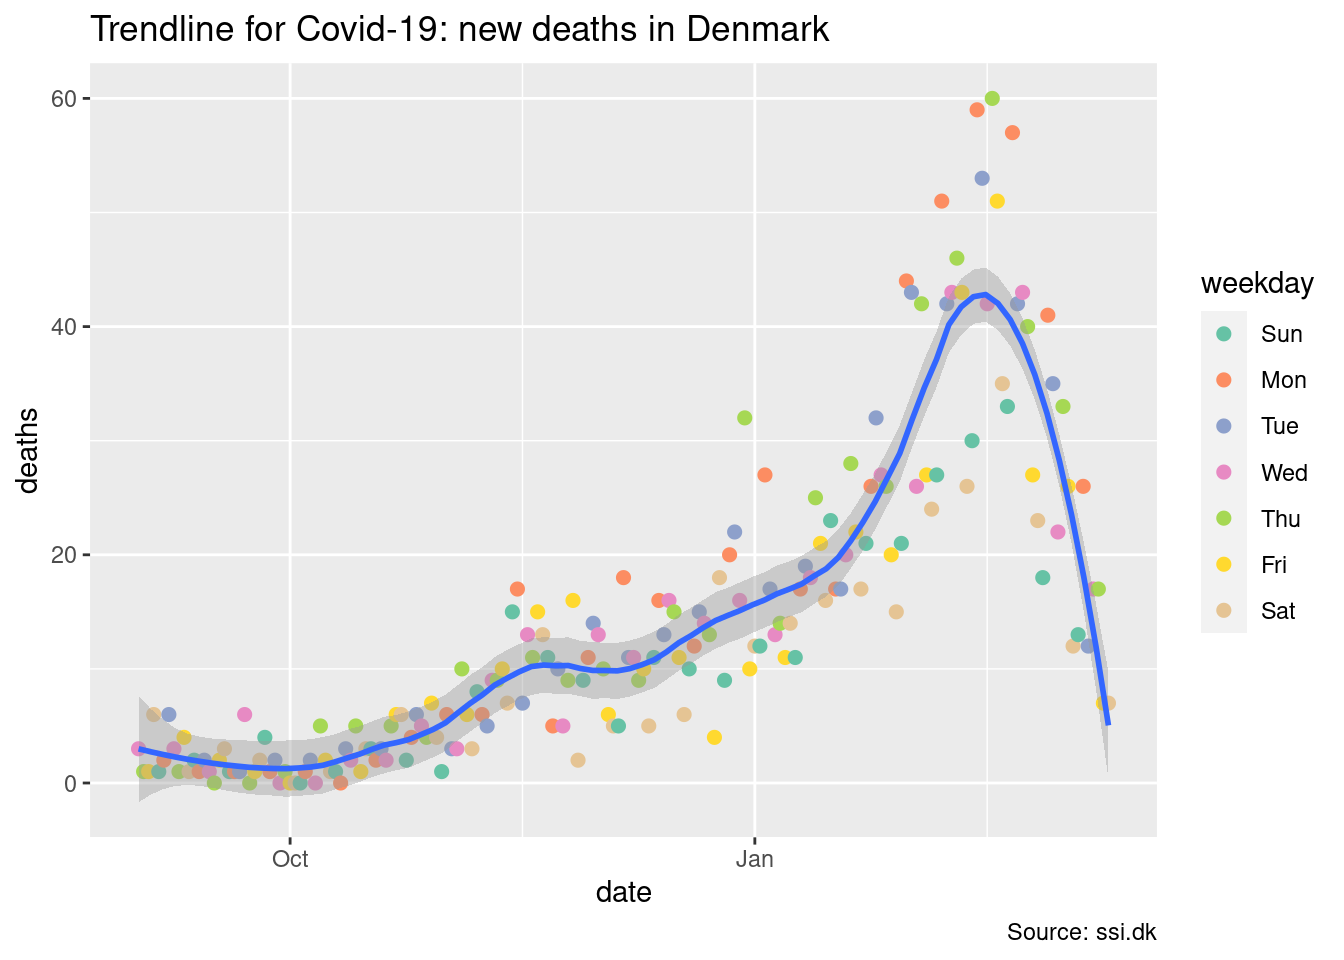
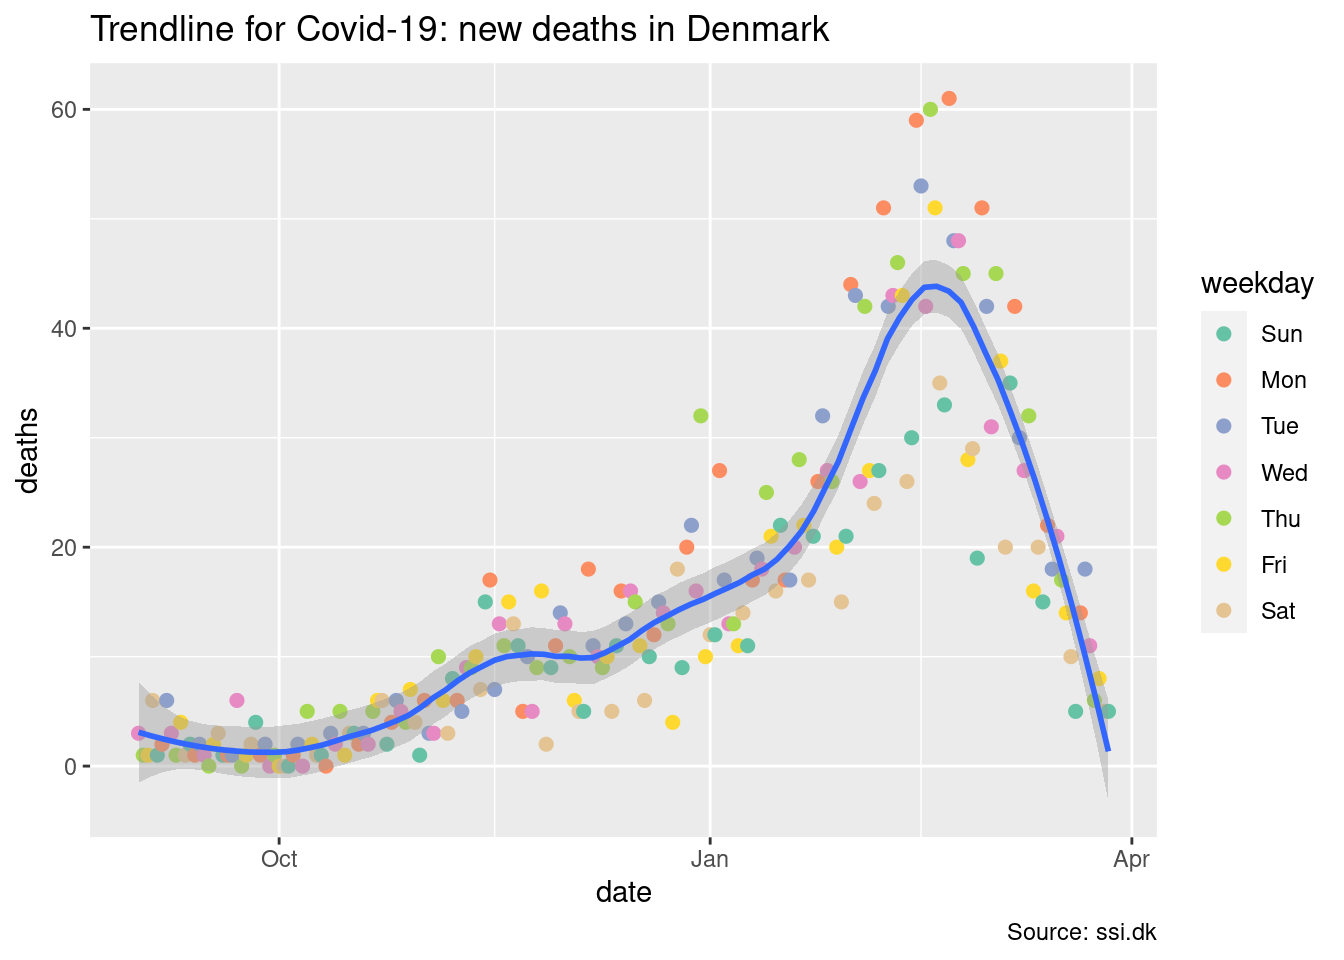
2022-04-06

diff --git a/docs/index.html b/docs/index.html
@@ -10,7 +10,7 @@
 
 
 
-<meta name="date" content="2022-03-22" />
+<meta name="date" content="2022-04-06" />
 
 <title>Covid-19 Stats for Denmark</title>
 
@@ -261,7 +261,7 @@ $(document).ready(function () {
 
 
 <h1 class="title toc-ignore">Covid-19 Stats for Denmark</h1>
-<h4 class="date">2022-03-22</h4>
+<h4 class="date">2022-04-06</h4>
 
 </div>
 
@@ -308,7 +308,7 @@ $(document).ready(function () {
 <pre class="r"><code>library(tidyverse)
 library(lubridate)</code></pre>
 <p>SSI’s data is in a zip file. We unpack this zip file into a directory of the general form <code>YYYY-MM-DD</code>. Lets set up a name for the current directory we want to grab data from</p>
-<pre class="r"><code>date &lt;- &quot;2022-03-22&quot;</code></pre>
+<pre class="r"><code>date &lt;- &quot;2022-04-06&quot;</code></pre>
 </div>
 <div id="ingesting-data" class="section level2">
 <h2>Ingesting data</h2>
@@ -350,7 +350,7 @@ library(lubridate)</code></pre>
                                       ))</code></pre>
 <pre><code>## ℹ Using &quot;&#39;,&#39;&quot; as decimal and &quot;&#39;.&#39;&quot; as grouping mark. Use `read_delim()` for more control.</code></pre>
 <pre class="r"><code>data</code></pre>
-<pre><code>## # A tibble: 7,198 × 9
+<pre><code>## # A tibble: 7,350 × 9
 ##    Region      Prøvetagningsdato Køn   `Bekræftede tilfælde…`  Døde Indlæggelser
 ##    &lt;fct&gt;       &lt;date&gt;            &lt;fct&gt;                  &lt;dbl&gt; &lt;dbl&gt;        &lt;dbl&gt;
 ##  1 Sjælland    2020-02-26        M                          1     0            0
@@ -363,7 +363,7 @@ library(lubridate)</code></pre>
 ##  8 Hovedstaden 2020-03-03        F                          1     0            0
 ##  9 Hovedstaden 2020-03-03        M                          3     0            1
 ## 10 Hovedstaden 2020-03-04        M                          2     0            0
-## # … with 7,188 more rows, and 3 more variables: `Kummuleret antal døde` &lt;dbl&gt;,
+## # … with 7,340 more rows, and 3 more variables: `Kummuleret antal døde` &lt;dbl&gt;,
 ## #   `Kummuleret antal bekræftede tilfælde` &lt;dbl&gt;,
 ## #   `Kummuleret antal indlæggelser` &lt;dbl&gt;</code></pre>
 <p>We certainly don’t want to work with danish-named columns. Rather, we want small descriptive names which are easy to type. We send our dataset through a <code>rename</code> pass for this.</p>
@@ -378,7 +378,7 @@ library(lubridate)</code></pre>
 # Cut the cumulative columns away
 data &lt;- data %&gt;% select(region, date, gender, cases, deaths, hospitalizations)
 data</code></pre>
-<pre><code>## # A tibble: 7,198 × 6
+<pre><code>## # A tibble: 7,350 × 6
 ##    region      date       gender cases deaths hospitalizations
 ##    &lt;fct&gt;       &lt;date&gt;     &lt;fct&gt;  &lt;dbl&gt;  &lt;dbl&gt;            &lt;dbl&gt;
 ##  1 Sjælland    2020-02-26 M          1      0                0
@@ -391,7 +391,7 @@ data</code></pre>
 ##  8 Hovedstaden 2020-03-03 F          1      0                0
 ##  9 Hovedstaden 2020-03-03 M          3      0                1
 ## 10 Hovedstaden 2020-03-04 M          2      0                0
-## # … with 7,188 more rows</code></pre>
+## # … with 7,340 more rows</code></pre>
 <p>Provide a low cut-off. We are interested in the recent period with Omicron, rather than the full duration of Covid-19.</p>
 <pre class="r"><code>lo_cutoff &lt;- &#39;2021-09-01&#39;</code></pre>
 <p>The high end of that cutoff, we set to two days before the maximal date in our data set</p>
@@ -405,20 +405,20 @@ data</code></pre>
 # Put this into the summary
 summary &lt;- data
 summary</code></pre>
-<pre><code>## # A tibble: 2,000 × 6
+<pre><code>## # A tibble: 2,150 × 6
 ##    region      date       gender cases deaths hospitalizations
 ##    &lt;fct&gt;       &lt;date&gt;     &lt;fct&gt;  &lt;dbl&gt;  &lt;dbl&gt;            &lt;dbl&gt;
 ##  1 Hovedstaden 2021-09-01 F        215      0                7
 ##  2 Midtjylland 2021-09-01 F         66      0                0
 ##  3 Nordjylland 2021-09-01 F         22      0                4
 ##  4 Sjælland    2021-09-01 F         43      0                0
-##  5 Syddanmark  2021-09-01 F         46      0                1
+##  5 Syddanmark  2021-09-01 F         40      0                1
 ##  6 Hovedstaden 2021-09-01 M        185      2                8
 ##  7 Midtjylland 2021-09-01 M         49      0                1
 ##  8 Nordjylland 2021-09-01 M         16      1                2
 ##  9 Sjælland    2021-09-01 M         39      0                3
-## 10 Syddanmark  2021-09-01 M         41      0                1
-## # … with 1,990 more rows</code></pre>
+## 10 Syddanmark  2021-09-01 M         40      0                1
+## # … with 2,140 more rows</code></pre>
 </div>
 <div id="weekly-key-figures-split-by-age" class="section level3">
 <h3>Weekly key figures split by age</h3>
@@ -443,20 +443,20 @@ summary</code></pre>
                         tested = &#39;Antal testede&#39;,
                         cases = &#39;Antal positive&#39;)
 data</code></pre>
-<pre><code>## # A tibble: 985 × 7
+<pre><code>## # A tibble: 1,003 × 7
 ##    week     ageGroup tested_100k cases_100k hospitalized_100k tested cases
 ##    &lt;chr&gt;    &lt;fct&gt;          &lt;dbl&gt;      &lt;dbl&gt;             &lt;dbl&gt;  &lt;dbl&gt; &lt;dbl&gt;
-##  1 2020-W04 00-02              0          0                 0      0     0
-##  2 2020-W04 03-05              0          0                 0      0     0
-##  3 2020-W04 06-11              0          0                 0      0     0
-##  4 2020-W04 12-15              0          0                 0      0     0
-##  5 2020-W04 16-19              0          0                 0      0     0
-##  6 2020-W04 20-39              0          0                 0      0     0
-##  7 2020-W04 40-64              0          0                 0      0     0
-##  8 2020-W04 65-79              0          0                 0      0     0
-##  9 2020-W04 80+                0          0                 0      0     0
-## 10 2020-W05 65-79              0          0                 0      1     0
-## # … with 975 more rows</code></pre>
+##  1 2020-U04 00-02              0          0                 0      0     0
+##  2 2020-U04 03-05              0          0                 0      0     0
+##  3 2020-U04 06-11              0          0                 0      0     0
+##  4 2020-U04 12-15              0          0                 0      0     0
+##  5 2020-U04 16-19              0          0                 0      0     0
+##  6 2020-U04 20-39              0          0                 0      0     0
+##  7 2020-U04 40-64              0          0                 0      0     0
+##  8 2020-U04 65-79              0          0                 0      0     0
+##  9 2020-U04 80+                0          0                 0      0     0
+## 10 2020-U05 65-79              0          0                 0      1     0
+## # … with 993 more rows</code></pre>
 <p>Take a look at the <code>week</code> column. It reports a year, and a week number. We’ll need to handle this, by converting this into a date. We’ll do that by defining a fixup function. If we have a string such as <code>2020-W04</code>, it means the 4th week of 2020. To get a date, we need a day inside the week to use as the day-of-week. So we turn the string into <code>2020-W04-1</code>, then send it through <code>strptime()</code>, a general time-parsing function.</p>
 <pre class="r"><code>fixup_week &lt;- function(s) {
     # For strptime to do its work correctly, it must know a day of the week. Here, we
@@ -509,15 +509,15 @@ data</code></pre>
 ##     lau1 name       `Bekræftede ti…` Incidens cases incidence tested tested_100k
 ##    &lt;dbl&gt; &lt;fct&gt;                 &lt;dbl&gt;    &lt;dbl&gt; &lt;dbl&gt;     &lt;dbl&gt;  &lt;dbl&gt;       &lt;dbl&gt;
 ##  1   411 &quot;&quot;                        0       NA     0        0      93      102000
-##  2   101 &quot;Københav…           363472    56641  3504      546  659811      103000
-##  3   147 &quot;Frederik…            56189    54409   648      628. 112788      109000
-##  4   151 &quot;Ballerup&quot;            27120    55025   379      769   50323      102000
-##  5   153 &quot;Brøndby&quot;             20571    57644   235      658.  36398      102000
-##  6   155 &quot;Dragør&quot;               7873    54028   101      693.  14614      100000
-##  7   157 &quot;Gentofte&quot;            38661    52273   504      681.  76465      103000
-##  8   159 &quot;Gladsaxe&quot;            38148    55153   457      661.  72487      105000
-##  9   161 &quot;Glostrup&quot;            13026    55617   168      717.  24549      105000
-## 10   163 &quot;Herlev&quot;              16702    58017   205      712.  29938      104000
+##  2   101 &quot;Københav…           367886    57329  1690      263. 660801      103000
+##  3   147 &quot;Frederik…            56977    55172   293      284. 113096      110000
+##  4   151 &quot;Ballerup&quot;            27594    55986   194      394.  50444      102000
+##  5   153 &quot;Brøndby&quot;             20852    58432   113      317.  36430      102000
+##  6   155 &quot;Dragør&quot;               8031    55113    63      432.  14645      101000
+##  7   157 &quot;Gentofte&quot;            39313    53154   220      298.  76641      104000
+##  8   159 &quot;Gladsaxe&quot;            38731    55996   196      283.  72624      105000
+##  9   161 &quot;Glostrup&quot;            13253    56586    82      350.  24615      105000
+## 10   163 &quot;Herlev&quot;              16938    58837   100      347.  29996      104000
 ## # … with 89 more rows, and 3 more variables: tested_1w &lt;dbl&gt;,
 ## #   tested_100k_1w &lt;dbl&gt;, population &lt;dbl&gt;</code></pre>
 <pre class="r"><code>muncipalities &lt;- data</code></pre>
@@ -657,7 +657,7 @@ p + geom_point(aes(color=region), size=.5) +
 <h2>Weekly data</h2>
 <p>As with the case for daily key figures, we can also use the weekly key figures. An important point of this data set is that the <code>ageGroup</code> are not a continous variable, but a discrete set of groups, non-uniformly spaced in between:</p>
 <pre class="r"><code>levels(factor(weekly$ageGroup))</code></pre>
-<pre><code>## [1] &quot;00-02&quot; &quot;03-05&quot; &quot;06-11&quot; &quot;12-15&quot; &quot;16-19&quot; &quot;20-39&quot; &quot;40-64&quot; &quot;65-79&quot; &quot;80+&quot;</code></pre>
+<pre><code>## character(0)</code></pre>
 <p>Why this is so is a good question. My bet is that it captures schooling groups among the youngest, splits adults into younger and older adults pivoting on 40, and handles the elderly in two large groups as well. However, it also means direct comparison between groups is somewhat dangerous.</p>
 <div id="visualizations" class="section level3">
 <h3>Visualizations</h3>
@@ -668,12 +668,10 @@ p + geom_point(aes(color=region), size=.5) +
         labs(title = title, subtitle = subtitle, caption = &quot;Source: ssi.dk&quot;, x=&quot;Week&quot;, y = &quot;Age Group&quot;)
 }</code></pre>
 <p>The above function allows us to plot cases per age group, and tested per age group</p>
-<pre class="r"><code>p &lt;- ggplot(weekly, aes(x=week, y=ageGroup, fill=cases_100k, height=0.8))
-plot_age_cases(p, &quot;Weekly cases split per age group, DK&quot;, &quot;Schools were closed on 15th Dec 2021, reopened in Jan 2022&quot;)</code></pre>
-<p><img src="index_files/figure-html/age-group-cases-1.png" width="672" /></p>
-<pre class="r"><code>p &lt;- ggplot(weekly, aes(x=week, y=ageGroup, fill=tested_100k, height=0.8))
-plot_age_cases(p, &quot;Weekly tests split per age group, DK&quot;, &quot;Schools were closed on 15th Dec 2021, reopened in Jan 2022&quot;)</code></pre>
-<p><img src="index_files/figure-html/age-group-tests-1.png" width="672" /></p>
+<pre class="r"><code># p &lt;- ggplot(weekly, aes(x=week, y=ageGroup, fill=cases_100k, height=0.8))
+# plot_age_cases(p, &quot;Weekly cases split per age group, DK&quot;, &quot;Schools were closed on 15th Dec 2021, reopened in Jan 2022&quot;)</code></pre>
+<pre class="r"><code># p &lt;- ggplot(weekly, aes(x=week, y=ageGroup, fill=tested_100k, height=0.8))
+# plot_age_cases(p, &quot;Weekly tests split per age group, DK&quot;, &quot;Schools were closed on 15th Dec 2021, reopened in Jan 2022&quot;)</code></pre>
 </div>
 </div>
 <div id="muncipality-data" class="section level2">
@@ -699,33 +697,32 @@ muncipalities$incidence_type &lt;- ifelse(muncipalities$incidence_z &lt; 0, &quo
 muncipalities$rate_z &lt;- round(muncipalities$rate - mean(muncipalities$rate), 5)
 muncipalities$rate_type &lt;- ifelse(muncipalities$rate_z &lt; 0, &quot;Below mean&quot;, &quot;Above mean&quot;)
 muncipalities$rate</code></pre>
-<pre><code>##  [1] 0.0000000 0.1729516 0.2026900 0.2034353 0.1664306 0.1887850 0.2035541
-##  [8] 0.1901789 0.1766562 0.1855204 0.1886228 0.1666667 0.1746111 0.2054795
-## [15] 0.1719663 0.1427156 0.2080706 0.2192429 0.2239241 0.2204641 0.2136119
-## [22] 0.2008772 0.1971958 0.2443920 0.2027369 0.2156511 0.2194093 0.2288876
-## [29] 0.2094948 0.2040650 0.2452107 0.1947769 0.2033195 0.2509363 0.2236272
-## [36] 0.2221494 0.2943750 0.2712766 0.2292347 0.2078086 0.2615083 0.2354049
-## [43] 0.2101293 0.2161149 0.2321297 0.2508073 0.2376841 0.2573662 0.2662835
-## [50] 0.2760278 0.2507553 0.2362898 0.1998925 0.2102211 0.2529611 0.3064877
-## [57] 0.2960725 0.2688808 0.2474950 0.2462567 0.2848937 0.2513812 0.1333333
-## [64] 0.2804548 0.3279608 0.2748453 0.2546318 0.3042506 0.2485225 0.2611419
-## [71] 0.3124783 0.2725410 0.3172589 0.3314840 0.2535527 0.3155588 0.3105413
-## [78] 0.3254818 0.2934962 0.3072081 0.2736842 0.3003625 0.2658753 0.2963259
-## [85] 0.3346891 0.2981205 0.3104738 0.3085612 0.3723618 0.2753404 0.2967033
-## [92] 0.2953415 0.2542986 0.2352941 0.3323293 0.3437500 0.3021978 0.2536977
-## [99] 0.2938985</code></pre>
-<pre class="r"><code>ggplot(muncipalities %&gt;% mutate(name = fct_reorder(name, rate)), aes(x=name, y=rate)) +
-  geom_bar(stat=&#39;identity&#39;, aes(fill=rate_type), width=.5)  +
-  scale_colour_brewer(palette=&quot;Set2&quot;) +
-  geom_hline(yintercept=mean(muncipalities$rate), linetype=2) +
-  labs(title= &quot;Diverging Bars Plot, DK&quot;,
-       subtitle = &quot;Cases/Tested ratio over the last 7 days&quot;,
-       fill = &quot;rate&quot;,
-       x = &quot;Name&quot;,
-       y = &quot;Rate&quot;,
-       caption = &quot;Source: ssi.dk&quot;) +
-  coord_flip()</code></pre>
-<p><img src="index_files/figure-html/muncipality-rate-overview-1.png" width="672" /></p>
+<pre><code>##  [1]       NaN 0.1304818 0.1410010 0.1945838 0.1414268 0.2045455 0.1445466
+##  [8] 0.1470368 0.1558935 0.1538462 0.1412844 0.1442786 0.1470588 0.1456469
+## [15] 0.1550468 0.1001965 0.1301775 0.1766382 0.1946387 0.1858553 0.1551499
+## [22] 0.1249036 0.1570423 0.1095335 0.1480447 0.1647550 0.1913357 0.1842105
+## [29] 0.1809764 0.1722222 0.1926966 0.1762115 0.1551020 0.1822095 0.2300532
+## [36] 0.1787297 0.2525952 0.2044444 0.1876184 0.1587744 0.2480974 0.2055641
+## [43] 0.1937858 0.1946956 0.1964520 0.1590494 0.1510277 0.2135524 0.1913652
+## [50] 0.2196181 0.2313253 0.1855422 0.1524655 0.1638418 0.2308917 0.2160000
+## [57] 0.1913580 0.1967213 0.2050000 0.1940594 0.1709302 0.1851420 0.1794872
+## [64] 0.2231121 0.2242595 0.1703297 0.1590320 0.1800000 0.2037968 0.2012632
+## [71] 0.2314410 0.2221095 0.2563291 0.2358491 0.2237197 0.2010582 0.2246377
+## [78] 0.2226721 0.2070006 0.2039216 0.2653061 0.2483940 0.1807725 0.2728636
+## [85] 0.2453052 0.2380952 0.1901235 0.2061856 0.2231308 0.1859532 0.2378641
+## [92] 0.2344633 0.2084006 0.2881356 0.2370062 0.1910275 0.2289157 0.1811909
+## [99] 0.2134725</code></pre>
+<pre class="r"><code>#ggplot(muncipalities %&gt;% mutate(name = fct_reorder(name, rate)), aes(x=name, y=rate)) +
+#  geom_bar(stat=&#39;identity&#39;, aes(fill=rate_type), width=.5)  +
+#  scale_colour_brewer(palette=&quot;Set2&quot;) +
+#  geom_hline(yintercept=mean(muncipalities$rate), linetype=2) +
+#  labs(title= &quot;Diverging Bars Plot, DK&quot;,
+#       subtitle = &quot;Cases/Tested ratio over the last 7 days&quot;,
+#       fill = &quot;rate&quot;,
+#       x = &quot;Name&quot;,
+#       y = &quot;Rate&quot;,
+#       caption = &quot;Source: ssi.dk&quot;) +
+#  coord_flip()</code></pre>
 <div id="analyzing-infections-over-population-counts" class="section level3">
 <h3>Analyzing infections over population counts</h3>
 <p>Read in Popcount. These can be obtained by Danmarks Statistik, by query on <code>FOLK1AM</code> in their data bank:</p>
@@ -741,7 +738,7 @@ muncipalities$rate</code></pre>
 popcount &lt;- read_data_2(&quot;./data/DS/2022121185617360647690FOLK1AM68563293012.csv&quot;)</code></pre>
 <pre><code>## ℹ Using &quot;&#39;,&#39;&quot; as decimal and &quot;&#39;.&#39;&quot; as grouping mark. Use `read_delim()` for more control.</code></pre>
 <pre><code>## Rows: 103 Columns: 4
-## ── Column specification ────────────────────────────────────────────────────────────────────────
+## ── Column specification ──────────────────────────────────────────────────────────────────────────────────────────────────────────────────────────────────────────
 ## Delimiter: &quot;;&quot;
 ## chr (3): X1, X2, X3
 ## dbl (1): X4
@@ -773,15 +770,15 @@ popcount</code></pre>
 ##    name            incidence popcount
 ##    &lt;chr&gt;               &lt;dbl&gt;    &lt;dbl&gt;
 ##  1 &quot;&quot;                     0        NA
-##  2 &quot;København&quot;          546    644987
-##  3 &quot;Frederiksberg&quot;      628.   103963
-##  4 &quot;Ballerup&quot;           769     49228
-##  5 &quot;Brøndby&quot;            658.    35535
-##  6 &quot;Dragør&quot;             693.    14602
-##  7 &quot;Gentofte&quot;           681.    74154
-##  8 &quot;Gladsaxe&quot;           661.    69321
-##  9 &quot;Glostrup&quot;           717.    23519
-## 10 &quot;Herlev&quot;             712.    28861
+##  2 &quot;København&quot;          263.   644987
+##  3 &quot;Frederiksberg&quot;      284.   103963
+##  4 &quot;Ballerup&quot;           394.    49228
+##  5 &quot;Brøndby&quot;            317.    35535
+##  6 &quot;Dragør&quot;             432.    14602
+##  7 &quot;Gentofte&quot;           298.    74154
+##  8 &quot;Gladsaxe&quot;           283.    69321
+##  9 &quot;Glostrup&quot;           350.    23519
+## 10 &quot;Herlev&quot;             347.    28861
 ## # … with 89 more rows</code></pre>
 <p>Now, test correlation via Pearson:</p>
 <pre class="r"><code>plot(muncipalities$incidence, muncipalities$popcount)</code></pre>
@@ -791,13 +788,13 @@ popcount</code></pre>
 ##  Pearson&#39;s product-moment correlation
 ## 
 ## data:  muncipalities$incidence and muncipalities$popcount
-## t = -2.1913, df = 92, p-value = 0.03095
+## t = -2.3016, df = 92, p-value = 0.02362
 ## alternative hypothesis: true correlation is not equal to 0
 ## 95 percent confidence interval:
-##  -0.40697368 -0.02105557
+##  -0.41627118 -0.03224184
 ## sample estimates:
 ##        cor 
-## -0.2227224</code></pre>
+## -0.2333345</code></pre>
 <p>Clearly, this argues there are no strong connection between population count, and the incidence in a given muncipality.</p>
 <p>Analyzing the rate shows there’s a connection between it and incidence, but this is more expected:</p>
 <pre class="r"><code>pairs(muncipalities %&gt;% select(incidence,popcount,rate))</code></pre>
@@ -807,20 +804,19 @@ popcount</code></pre>
 ##  Pearson&#39;s product-moment correlation
 ## 
 ## data:  muncipalities$incidence and muncipalities$rate
-## t = 12.29, df = 97, p-value &lt; 2.2e-16
+## t = 6.6667, df = 96, p-value = 1.657e-09
 ## alternative hypothesis: true correlation is not equal to 0
 ## 95 percent confidence interval:
-##  0.6890815 0.8472374
+##  0.4098729 0.6845541
 ## sample estimates:
 ##       cor 
-## 0.7803413</code></pre>
+## 0.5625435</code></pre>
 <p>Summarize:</p>
 <pre class="r"><code>summary(muncipalities$rate)</code></pre>
-<pre><code>##    Min. 1st Qu.  Median    Mean 3rd Qu.    Max. 
-##  0.0000  0.2079  0.2485  0.2460  0.2937  0.3724</code></pre>
-<pre class="r"><code>d &lt;- density(muncipalities$rate)
-plot(d)</code></pre>
-<p><img src="index_files/figure-html/muncipality-summary-1.png" width="672" /></p>
+<pre><code>##    Min. 1st Qu.  Median    Mean 3rd Qu.    Max.    NA&#39;s 
+##  0.1002  0.1602  0.1914  0.1917  0.2215  0.2881       1</code></pre>
+<pre class="r"><code>#d &lt;- density(muncipalities$rate)
+#plot(d)</code></pre>
 </div>
 </div>
 

diff --git a/docs/core.html b/docs/core.html
@@ -10,7 +10,7 @@
 
 
 
-<meta name="date" content="2022-03-22" />
+<meta name="date" content="2022-04-06" />
 
 <title>Core Covid-19 Stats for Denmark</title>
 
@@ -261,7 +261,7 @@ $(document).ready(function () {
 
 
 <h1 class="title toc-ignore">Core Covid-19 Stats for Denmark</h1>
-<h4 class="date">2022-03-22</h4>
+<h4 class="date">2022-04-06</h4>
 
 </div>
 
@@ -325,7 +325,7 @@ rt_cases</code></pre>
 <pre class="r"><code>m_cases_timeseries_path &lt;- sprintf(&quot;%s/Municipality_cases_time_series.csv&quot;, path)
 m_cases_timeseries &lt;- readr::read_csv2(m_cases_timeseries_path)
 m_cases_timeseries</code></pre>
-<pre><code>## # A tibble: 755 × 101
+<pre><code>## # A tibble: 770 × 101
 ##    SampleDate Roskilde Copenhagen Aarhus Frederiksberg Kalundborg Middelfart
 ##    &lt;date&gt;        &lt;dbl&gt;      &lt;dbl&gt;  &lt;dbl&gt;         &lt;dbl&gt;      &lt;dbl&gt;      &lt;dbl&gt;
 ##  1 2020-02-26        1          0      0             0          0          0
@@ -338,7 +338,7 @@ m_cases_timeseries</code></pre>
 ##  8 2020-03-05        0          2      0             2          0          0
 ##  9 2020-03-06        0          0      0             0          0          0
 ## 10 2020-03-07        0          1      1             1          0          0
-## # … with 745 more rows, and 94 more variables: Gentofte &lt;dbl&gt;, Solrød &lt;dbl&gt;,
+## # … with 760 more rows, and 94 more variables: Gentofte &lt;dbl&gt;, Solrød &lt;dbl&gt;,
 ## #   Allerød &lt;dbl&gt;, Dragør &lt;dbl&gt;, Helsingør &lt;dbl&gt;, Hillerød &lt;dbl&gt;,
 ## #   Rudersdal &lt;dbl&gt;, Næstved &lt;dbl&gt;, Aalborg &lt;dbl&gt;, Vallensbæk &lt;dbl&gt;,
 ## #   Esbjerg &lt;dbl&gt;, Favrskov &lt;dbl&gt;, Frederikssund &lt;dbl&gt;, Furesø &lt;dbl&gt;,
@@ -351,7 +351,7 @@ m_cases_timeseries</code></pre>
   rename(date = `SampleDate`)
 
 m_cases_timeseries</code></pre>
-<pre><code>## # A tibble: 75,500 × 3
+<pre><code>## # A tibble: 77,000 × 3
 ##    date       Municipality  Cases
 ##    &lt;date&gt;     &lt;chr&gt;         &lt;dbl&gt;
 ##  1 2020-02-26 Roskilde          1
@@ -364,7 +364,7 @@ m_cases_timeseries</code></pre>
 ##  8 2020-02-26 Solrød            0
 ##  9 2020-02-26 Allerød           0
 ## 10 2020-02-26 Dragør            0
-## # … with 75,490 more rows</code></pre>
+## # … with 76,990 more rows</code></pre>
 <p>We use the same strategy for the tests:</p>
 <pre class="r"><code>m_tested_timeseries_path &lt;- sprintf(&quot;%s/Municipality_tested_persons_time_series.csv&quot;, path)
 m_tested_timeseries &lt;- readr::read_csv2(m_tested_timeseries_path)
@@ -375,7 +375,7 @@ m_tested_timeseries &lt;- m_tested_timeseries %&gt;%
 <pre class="r"><code>municipality &lt;- m_cases_timeseries %&gt;% left_join(m_tested_timeseries, by = c(&quot;date&quot;, &quot;Municipality&quot;))
 municipality &lt;- municipality %&gt;% mutate(Municipality = factor(Municipality))
 municipality</code></pre>
-<pre><code>## # A tibble: 75,500 × 4
+<pre><code>## # A tibble: 77,000 × 4
 ##    date       Municipality  Cases Tested
 ##    &lt;date&gt;     &lt;fct&gt;         &lt;dbl&gt;  &lt;dbl&gt;
 ##  1 2020-02-26 Roskilde          1      3
@@ -388,7 +388,7 @@ municipality</code></pre>
 ##  8 2020-02-26 Solrød            0      0
 ##  9 2020-02-26 Allerød           0      0
 ## 10 2020-02-26 Dragør            0      0
-## # … with 75,490 more rows</code></pre>
+## # … with 76,990 more rows</code></pre>
 </div>
 </div>
 <div id="plots-of-interest" class="section level2">
